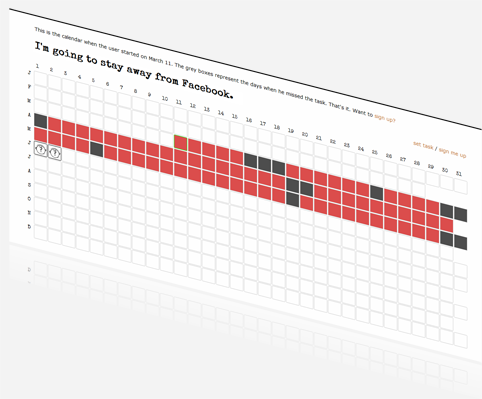
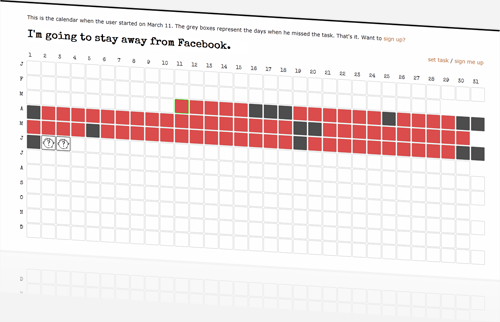
reduce image skew. added loading ajax indicator.

diff --git a/static/js/js.js b/static/js/js.js
@@ -123,7 +123,19 @@ var onClickDay = function($curr_day){
 		data:streak_string,
 		type:'POST',
 		async:false,
+		beforeSend: function() { 
+
+		$('#loading').toggle();
+
+		var winH = $(window).height();
+		var winW = $(window).width();
+		//Set the popup window to center
+		$('#loading').css('top',  winH/2-$('.window').height()/2);
+		$('#loading').css('left', winW/2-$('.window').width()/2);
+	
+		 },
 		success: function(value) {
+		$('#loading').hide();
 		($curr_day).unbind('click');
 		$curr_day.removeClass('editable');
 		($curr_day).addClass('highlight');
@@ -156,7 +168,19 @@ function save(){
 		url:'set_task/',
 		data:JSON.stringify(query),
 		type:'POST',
+		beforeSend: function() { 
+
+		$('#loading').toggle();
+
+		var winH = $(window).height();
+		var winW = $(window).width();
+		//Set the popup window to center
+		$('#loading').css('top',  winH/2-$('.window').height()/2);
+		$('#loading').css('left', winW/2-$('.window').width()/2);
+	
+		 },
 		success: function(value) {
+			$('#loading').hide();
 			/*  Clearing up the calendar here itself.
 				Can redirect to the same page again,  but why make the extra server call?*/
 			$("div.highlight").removeClass('highlight');

diff --git a/static/style/layout.css b/static/style/layout.css
@@ -333,7 +333,7 @@ a:hover{
 	display:none;
 }
   
-#dialog2{
+#dialog2, #loading{
 	position:absolute;
 	left:0;
 	top:0;
@@ -345,9 +345,18 @@ a:hover{
 	background:url(../images/notice.png) no-repeat 0 0 transparent; 
 	width:326px; 
 	height:229px;
-	padding:50px 0 20px 25px;
+	padding:50px 20px 20px 25px;
 }
 
+#loading{
+	text-align:center;
+
+}
+
+#loading p{
+	font-family: 'Special Elite', arial, serif;
+	font-size:16px;
+}
 .bar{
 	width: 100%;
 	vertical-align: bottom;

diff --git a/templates/index.html b/templates/index.html
@@ -540,6 +540,7 @@
 	<!-- End of Sticky Note -->
 	<!-- Mask to cover the whole screen -->
 	 <div id="mask"></div>
+	 <div id="loading"><br/><br/><img src="static/images/loading.gif"/><br/><br/><p> &nbsp;&nbsp;Saving changes...</p></div>
 
 </body>
 
